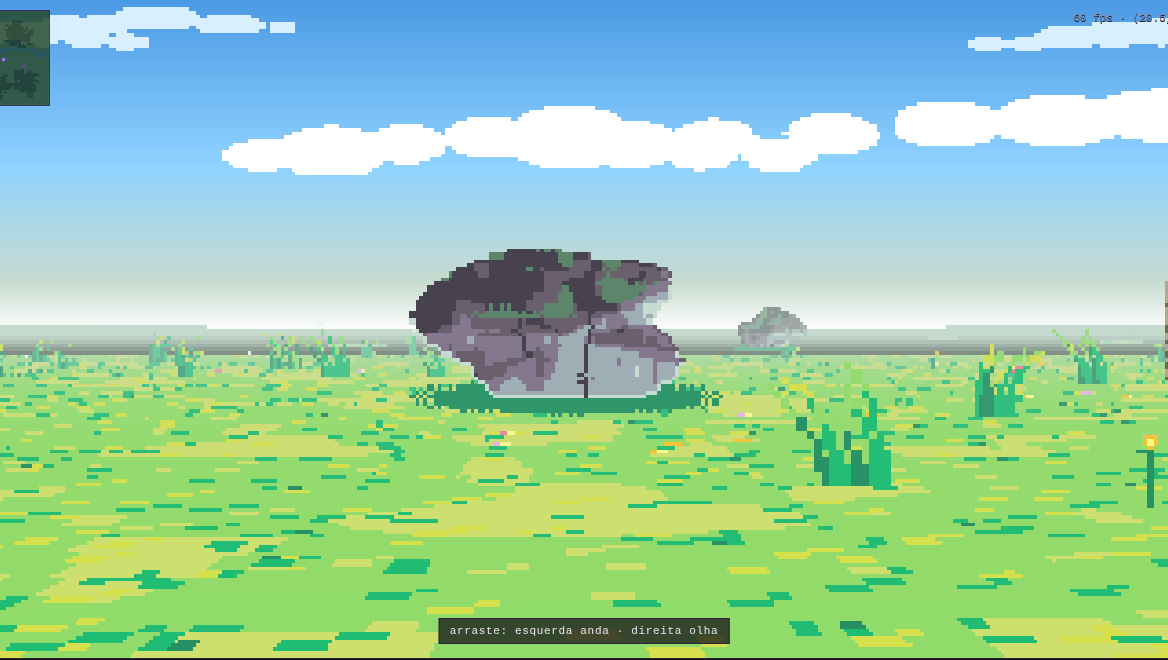
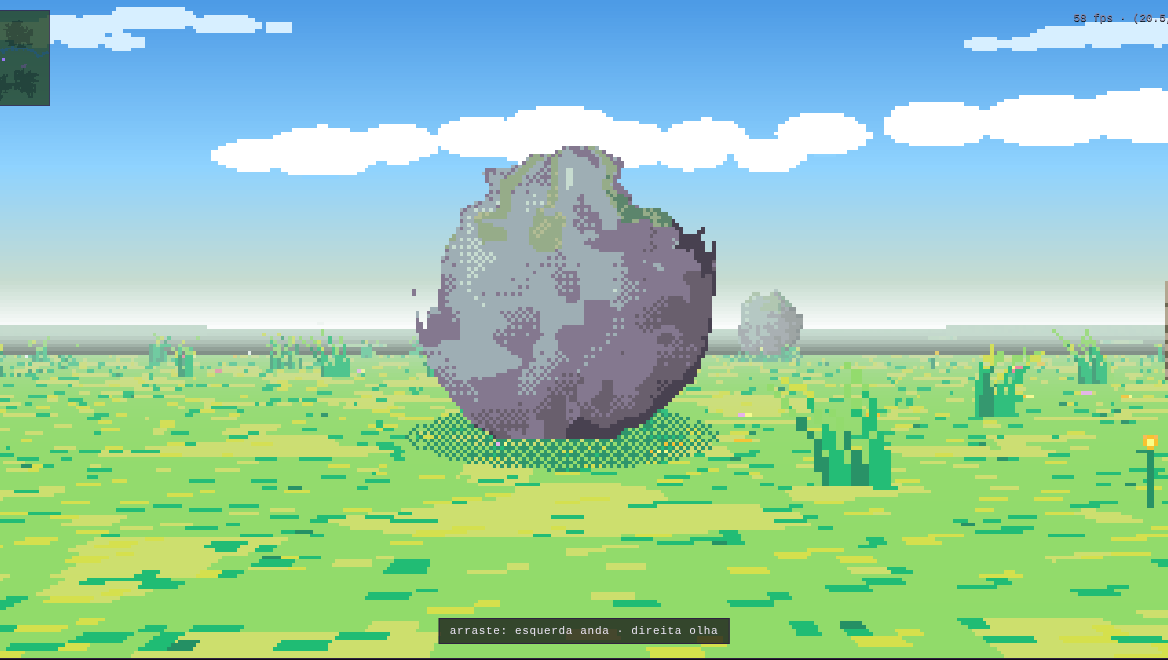
protótipo v3.1: rochas viram volume 3D per-pixel; troncos cilíndricos e +resolução
Resposta ao 'parece foto plana / vira conforme contorno':
- ROCHA agora é volume 3D per-pixel (mesma classe do orbe do Núcleo, não
  billboard): relevo ancorado no MUNDO via azimute câmera->rocha, então
  circular mostra lados genuinamente diferentes; luz do sol FIXA no mundo
  deixa o lado iluminado parado — é o que lê como sólido. Musgo nas faces
  pra cima, contorno escuro à sombra, facetas, base achatada e sombra de
  contato. Sem mais 'foto girando' (dropado o esquema de 4 faces chapadas).
- TRONCO com sombreado cilíndrico (rampa de 5 tons atravessando a largura)
  + estrias verticais da casca; deixa de parecer tábua 2D.
- Árvores renderizadas a ~1.6x de resolução de fonte: tronco não fica mais
  chunky de perto. 58-60fps mantidos (rochas são poucas e o shader roda só
  na caixa de cada uma).

Claude-Session: https://claude.ai/code/session_011RMb7NFMQktSfEYCn3A41e

diff --git a/prototipos/fps/nos-fps.html b/prototipos/fps/nos-fps.html
@@ -261,13 +261,14 @@ function growTree(opts) {
       const cx = s.x1 + dx * t, cy = s.y1 + dy * t;
       const halfW = s.w / 2;
       for (let o = -halfW; o <= halfW; o += 0.5) {
-        const frac = (o / halfW) * litSign; // -1 borda iluminada .. +1 sombra
-        let idx;
-        if (frac < -0.35) idx = barkRamp[3];
-        else if (frac > 0.45) idx = barkRamp[0];
-        else if (frac > 0.1) idx = barkRamp[1];
-        else idx = barkRamp[2];
-        put(cx + pxn * o, cy + pyn * o, idx);
+        // cilindro: claro perto da borda iluminada, escurecendo em curva até a sombra
+        const sfrac = (o / halfW) * litSign; // -1 luz .. +1 sombra
+        let b5 = clamp(4 - Math.round((sfrac + 1) * 2), 0, 4);
+        // estrias verticais da casca (colunas fixas ao longo do tronco)
+        const ridge = hash2(Math.round(o * 4) + 31, 0);
+        if (ridge < 0.24) b5 = clamp(b5 - 1, 0, 4);
+        else if (ridge > 0.9) b5 = clamp(b5 + 1, 0, 4);
+        put(cx + pxn * o, cy + pyn * o, barkRamp[b5]);
       }
     }
   }
@@ -581,6 +582,7 @@ function texAt(t, frameIx, u, v) {
 
 /* ---------- assets GERADOS (mesmo gerador do Estúdio de Cena) ---------- */
 const PAL_RGB = PALETTE.map((h) => [parseInt(h.slice(1, 3), 16), parseInt(h.slice(3, 5), 16), parseInt(h.slice(5, 7), 16)]);
+const PAL_RGB_U32 = PAL_RGB.map(([r, g, b]) => (255 << 24) | (b << 16) | (g << 8) | r);
 function bufToTex(gen) {
   const data = new Uint32Array(gen.W * gen.H);
   for (let i = 0; i < data.length; i++) {
@@ -596,8 +598,9 @@ SPECIES.copado = { ...SPECIES.carvalho, spread: 0.74, leafR: [9, 14], depth: 7, 
 SPECIES.jovem = { ...SPECIES.carvalho, len: 15, width: 5, leafR: [5, 8], depth: 6, jitter: 0.42 };
 /* 8 variantes x 3 frames de VENTO (folhas deslocam, tronco parado) */
 const TREE_SPECIES_SET = ['carvalho', 'carvalho', 'copado', 'copado', 'anciao', 'anciao', 'jovem', 'salgueiro'];
+const TREE_RES = 1.6; // fonte ~1.6x mais densa: tronco deixa de parecer chunky de perto
 const TREE_VARIANTS = TREE_SPECIES_SET.map((sp, i) =>
-  [-1, 0, 1].map((w) => bufToTex(growTree({ species: sp, mood: 'dia', seed: 4021 + i * 977, W: 104, H: 136, windAmt: w })))
+  [-1, 0, 1].map((w) => bufToTex(growTree({ species: sp, mood: 'dia', seed: 4021 + i * 977, W: Math.round(104 * TREE_RES), H: Math.round(136 * TREE_RES), sizeMul: TREE_RES, windAmt: w * TREE_RES })))
 );
 /* rochas: 4 variantes x 4 FACES (rotações de 90 graus escolhidas pelo ângulo de visão) */
 const ROCK_VARIANTS = [];
@@ -848,8 +851,7 @@ for (let ty = 0; ty < world.h; ty++) {
       const dCore = Math.hypot(tx - CORE.x, ty - CORE.y);
       if (dCore < 6) continue; // praça do Núcleo limpa
       rockTiles.add(ty * world.w + tx);
-      const v = ROCK_VARIANTS[(h * 997 * ROCK_VARIANTS.length | 0) % ROCK_VARIANTS.length];
-      bills.push({ x: tx + 0.5, y: ty + 0.5, genViews: v, label: 'rocha', scale: 0.62 + h * 0.55, lift: 0 });
+      bills.push({ x: tx + 0.5, y: ty + 0.5, rock3d: true, seed: (tx * 733 + ty * 197) | 0, label: 'rocha', scale: 0.72 + h * 0.7, lift: 0 });
     }
   }
 }
@@ -1010,6 +1012,63 @@ function render(now) {
     if (rx1 < 0 || rx0 >= W || y1c < 0 || y0c >= H) continue; /* 100% fora da tela */
     const y0 = clamp(y0c | 0, 0, H - 1), y1 = clamp(y1c | 0, 0, H - 1);
     const x0 = clamp(rx0, 0, W - 1), x1 = clamp(rx1, 0, W - 1);
+    if (b.rock3d) {
+      /* rocha como VOLUME 3D per-pixel (mesma classe do orbe, não billboard):
+         relevo ancorado no MUNDO via o azimute câmera->rocha, então circular
+         mostra lados diferentes de verdade; luz do sol FIXA no mundo faz o
+         lado iluminado ficar parado — é isso que lê como sólido, não foto. */
+      const cxr = (rx0 + rx1) / 2, radX = Math.max(1, sw / 2), radY = Math.max(1, sh / 2);
+      const cyr = y1c - radY * 0.86;            // centro subido -> base achatada no chão
+      const az = Math.atan2(b.y - cam.y, b.x - cam.x);
+      const seed = (b.seed || 1) * 0.013;
+      const SUN_AZ = -2.2, SUN_EL = 0.5, cosEl = Math.cos(SUN_EL), sinEl = Math.sin(SUN_EL);
+      const ROCK = [1, 2, 6, 7, 8], MOSS = [35, 36, 37, 38];
+      // sombra de contato no chão (elipse escura sob a pedra)
+      const shW = radX * 1.05, shH = Math.max(1.5, radY * 0.22);
+      for (let x = Math.max(0, (cxr - shW) | 0); x <= Math.min(W - 1, (cxr + shW) | 0); x++) {
+        if (ty >= zbuf[x]) continue;
+        for (let y = (y1c - shH) | 0; y <= Math.min(H - 1, (y1c + shH) | 0); y++) {
+          const ex = (x - cxr) / shW, ey = (y - y1c) / shH;
+          if (ex * ex + ey * ey > 1) continue;
+          if ((BAYER[y & 3][x & 3] / 16) < 0.62 - ex * ex * 0.3) px[y * W + x] = shade(PAL_RGB_U32[30], f, 0);
+        }
+      }
+      for (let x = x0; x <= x1; x++) {
+        if (ty >= zbuf[x]) continue;
+        const nx = (x - cxr) / radX;
+        if (nx < -1 || nx > 1) continue;
+        const bearing0 = az + Math.asin(clamp(nx, -1, 1)); // rumo no mundo da coluna visível
+        for (let y = y0; y <= y1; y++) {
+          if (y > y1c) continue;                 // base plana
+          const nyv = (y - cyr) / radY;
+          const relief = (fbm(Math.cos(bearing0) * 2.4 + seed, nyv * 2.4 + Math.sin(bearing0) * 2.4 + seed, 3) - 0.5) * 0.55;
+          const rr = 1 + relief;
+          const r2 = nx * nx + nyv * nyv;
+          if (r2 > rr * rr) continue;            // fora do volume deformado
+          const nyN = clamp(nyv / rr, -1, 1);
+          const nzt = Math.sqrt(Math.max(0, 1 - (nx / rr) * (nx / rr) - nyN * nyN));
+          const horiz = Math.sqrt(Math.max(0, 1 - nyN * nyN));
+          const bearing = az + Math.atan2(nx / rr, nzt + 1e-4);
+          // normal no MUNDO (z = cima) -> luz do sol fixa
+          const wnx = horiz * Math.cos(bearing), wny = horiz * Math.sin(bearing), wnz = -nyN;
+          const lam = wnx * Math.cos(SUN_AZ) * cosEl + wny * Math.sin(SUN_AZ) * cosEl + wnz * sinEl;
+          const facet = Math.floor((fbm(Math.cos(bearing) * 6 + seed, nyN * 6 + seed, 2)) * 3) / 3;
+          let tt = 0.5 + 0.46 * lam + (facet - 0.5) * 0.5;
+          tt += (BAYER[y & 3][x & 3] / 16 - 0.5) * 0.12;
+          const edge = r2 > (rr - 0.09) * (rr - 0.09);
+          let idx;
+          if (wnz > 0.42 && fbm(Math.cos(bearing) * 4 + seed * 2, nyN * 4, 2) > 0.46) {
+            idx = MOSS[clamp(Math.round(tt * 3), 0, 3)]; // musgo no topo
+          } else if (edge && lam < 0.05) {
+            idx = 1; // contorno escuro no lado à sombra
+          } else {
+            idx = ROCK[clamp(Math.round(tt * 4), 0, 4)];
+          }
+          px[y * W + x] = shade(PAL_RGB_U32[idx], f, 0);
+        }
+      }
+      continue;
+    }
     if (b.tex === 'orb') {
       /* o Núcleo: esfera procedural pulsante — luz, não parede (D-22: o coração vivo) */
       const cx = (rx0 + rx1) / 2, cy = (y0c + y1c) / 2, rad = sh / 2;

diff --git a/prototipos/fps/tree-core.js b/prototipos/fps/tree-core.js
@@ -119,13 +119,13 @@ function growTree(opts) {
       const cx = s.x1 + dx * t, cy = s.y1 + dy * t;
       const halfW = s.w / 2;
       for (let o = -halfW; o <= halfW; o += 0.5) {
-        const frac = (o / halfW) * litSign; // -1 borda iluminada .. +1 sombra
-        let idx;
-        if (frac < -0.35) idx = barkRamp[3];
-        else if (frac > 0.45) idx = barkRamp[0];
-        else if (frac > 0.1) idx = barkRamp[1];
-        else idx = barkRamp[2];
-        put(cx + pxn * o, cy + pyn * o, idx);
+        // cilindro: claro perto da borda iluminada, escurecendo em curva até a sombra
+        const sfrac = (o / halfW) * litSign; // -1 luz .. +1 sombra
+        let b5 = clamp(4 - Math.round((sfrac + 1) * 2), 0, 4);
+        const ridge = hash2(Math.round(o * 4) + 31, 0); // estrias verticais da casca
+        if (ridge < 0.24) b5 = clamp(b5 - 1, 0, 4);
+        else if (ridge > 0.9) b5 = clamp(b5 + 1, 0, 4);
+        put(cx + pxn * o, cy + pyn * o, barkRamp[b5]);
       }
     }
   }
